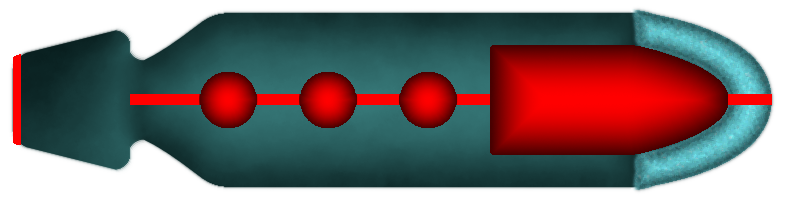
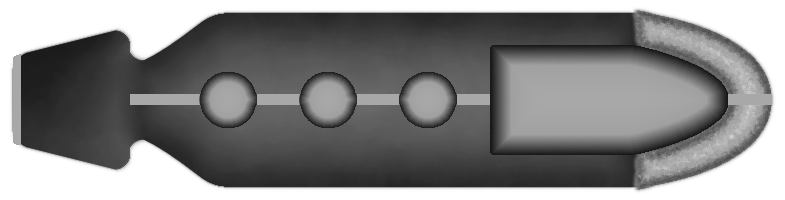
draw_floating_items: highlighting for player aligned items

diff --git a/ubootgl_app.cpp b/ubootgl_app.cpp
@@ -63,7 +63,7 @@ void UbootGlApp::loop() {
       if (player.torpedoCooldown < 0.0001 && player.torpedosLoaded > 1.0) {
         auto newTorpedo = registry.create();
         registry.assign<CoTorpedo>(newTorpedo);
-        registry.assign<CoItem>(newTorpedo, glm::vec2{0.003, 0.0006}, item.pos,
+        registry.assign<CoItem>(newTorpedo, glm::vec2{0.004, 0.0008}, item.pos,
                                 item.rotation);
         registry.assign<CoKinematics>(
             newTorpedo, 0.15,
@@ -105,7 +105,7 @@ void UbootGlApp::loop() {
 
     for (int p = 0; p < playerCount; p++) {
       auto newPlayer = registry.create();
-      registry.assign<CoItem>(newPlayer, glm::vec2{0.008, 0.0024},
+      registry.assign<CoItem>(newPlayer, glm::vec2{0.009, 0.0022},
                               glm::vec2(0.2, 0.2), 0.0f);
       registry.assign<CoKinematics>(newPlayer, 1.3, glm::vec2(0, 0), 0.0f);
       registry.assign<entt::tag<"tex_ship"_hs>>(newPlayer);
@@ -405,19 +405,31 @@ void UbootGlApp::draw() {
         registry, registry.type<entt::tag<"tex_debris1"_hs>>(),
         textures[registry.type<entt::tag<"tex_debris1"_hs>>()], PVM, 1.0f,
         true);
-    DrawFloatingItems::draw(
-        registry, registry.type<entt::tag<"tex_torpedo"_hs>>(),
-        textures[registry.type<entt::tag<"tex_torpedo"_hs>>()], PVM, 1.0f,
-        false);
 
     DrawFloatingItems::draw(
         registry, registry.type<entt::tag<"tex_agent"_hs>>(),
         textures[registry.type<entt::tag<"tex_agent"_hs>>()], PVM, 1.0f, false);
 
+    DrawFloatingItems::draw(
+        registry, registry.type<entt::tag<"tex_torpedo"_hs>>(),
+        textures[registry.type<entt::tag<"tex_torpedo"_hs>>()], PVM, 1.0f,
+        false, true);
+    DrawFloatingItems::draw(
+        registry, registry.type<entt::tag<"tex_torpedo"_hs>>(),
+        textures[registry.type<entt::tag<"tex_torpedo"_hs>>()], PVM, 1.0f,
+        false);
     DrawFloatingItems::draw(registry, registry.type<entt::tag<"tex_ship"_hs>>(),
                             textures[registry.type<entt::tag<"tex_ship"_hs>>()],
-                            PVM, 1.0f);
+                            PVM, 1.0f, false, true);
 
+    DrawFloatingItems::draw(registry, registry.type<entt::tag<"tex_ship"_hs>>(),
+                            textures[registry.type<entt::tag<"tex_ship"_hs>>()],
+                            PVM, 1.0f, false);
+
+    DrawFloatingItems::draw(
+        registry, registry.type<entt::tag<"tex_explosion"_hs>>(),
+        textures[registry.type<entt::tag<"tex_explosion"_hs>>()], PVM, 1.0f,
+        true, true);
     DrawFloatingItems::draw(
         registry, registry.type<entt::tag<"tex_explosion"_hs>>(),
         textures[registry.type<entt::tag<"tex_explosion"_hs>>()], PVM, 1.0f,
@@ -444,13 +456,14 @@ void UbootGlApp::draw() {
 
   DrawFloatingItems::draw(registry, registry.type<entt::tag<"tex_ship"_hs>>(),
                           textures[registry.type<entt::tag<"tex_ship"_hs>>()],
-                          PVM, 5.0f, false);
+                          PVM, 5.0f, false, true);
   DrawFloatingItems::draw(registry, registry.type<entt::tag<"tex_agent"_hs>>(),
                           textures[registry.type<entt::tag<"tex_agent"_hs>>()],
-                          PVM, 3.0f, false);
+                          PVM, 3.0f, false, true);
   DrawFloatingItems::draw(
       registry, registry.type<entt::tag<"tex_torpedo"_hs>>(),
-      textures[registry.type<entt::tag<"tex_torpedo"_hs>>()], PVM, 3.0f, false);
+      textures[registry.type<entt::tag<"tex_torpedo"_hs>>()], PVM, 3.0f, false,
+      true);
 
   ImGui::SetNextWindowPos(ImVec2(200, 10));
   ImGui::SetNextWindowSize(ImVec2(300, 400));

diff --git a/draw_floating_items.cpp b/draw_floating_items.cpp
@@ -43,7 +43,7 @@ void init() {
 }
 
 void draw(entt::registry &registry, entt::component component, Texture texture,
-          glm::mat4 PVM, float magnification, bool blendSum) {
+          glm::mat4 PVM, float magnification, bool blendSum, bool highlight) {
 
   entt::component components[] = {component, registry.type<CoItem>()};
   auto spriteView = registry.runtime_view(begin(components), end(components));
@@ -56,8 +56,6 @@ void draw(entt::registry &registry, entt::component component, Texture texture,
   vector<float> rot_buf;
   vector<int> player_buf;
 
-
-
   auto inversePVM = glm::inverse(PVM);
   auto screenP1 = inversePVM * glm::vec4(-1.0, -1.0, 0.0, 1.0);
   auto screenP2 = inversePVM * glm::vec4(1.0, 1.0, 0.0, 1.0);
@@ -68,6 +66,10 @@ void draw(entt::registry &registry, entt::component component, Texture texture,
     if (item.pos.x > screenP1.x && item.pos.x < screenP2.x &&
         item.pos.y > screenP1.y && item.pos.y < screenP2.y) {
       pos_buf.push_back(item.pos);
+
+      if (highlight)
+        item.size += min(item.size[0], item.size[1]) * 0.3f;
+
       size_buf.push_back(item.size * magnification);
       rot_buf.push_back(item.rotation);
 
@@ -78,7 +80,7 @@ void draw(entt::registry &registry, entt::component component, Texture texture,
 
       frame_buf.push_back(f);
       int p = -1;
-      if (registry.has<CoPlayerAligned>(entity)) {
+      if (registry.has<CoPlayerAligned>(entity) && highlight) {
         p = registry.get<CoPlayer>(registry.get<CoPlayerAligned>(entity).player)
                 .keySet;
       }
@@ -134,7 +136,11 @@ void draw(entt::registry &registry, entt::component component, Texture texture,
   } else {
     GL_CALL(glBlendFunc(GL_SRC_ALPHA, GL_ONE_MINUS_SRC_ALPHA));
   }
-  GL_CALL(glTexParameterf(GL_TEXTURE_2D, GL_TEXTURE_LOD_BIAS, -0.2));
+  if (highlight) {
+    GL_CALL(glTexParameterf(GL_TEXTURE_2D, GL_TEXTURE_LOD_BIAS, 1.5));
+  } else {
+    GL_CALL(glTexParameterf(GL_TEXTURE_2D, GL_TEXTURE_LOD_BIAS, -0.2));
+  }
 
   GL_CALL(glBindVertexArray(vao));
 

diff --git a/ubootgl_app.hpp b/ubootgl_app.hpp
@@ -36,7 +36,7 @@ public:
     scale = 3.0;
 
     textures.emplace(registry.type<entt::tag<"tex_ship"_hs>>(),
-                     Texture("resources/ship3.png", 2, 1));
+                     Texture("resources/ship2.png", 1, 1));
     textures.emplace(registry.type<entt::tag<"tex_debris1"_hs>>(),
                      Texture("resources/debris1.png"));
     textures.emplace(registry.type<entt::tag<"tex_debris2"_hs>>(),

diff --git a/draw_floating_items.hpp b/draw_floating_items.hpp
@@ -9,6 +9,7 @@ namespace DrawFloatingItems {
 void init();
 
 void draw(entt::registry &registry, entt::component component, Texture texture,
-          glm::mat4 PVM, float magnification, bool blendSum = false);
+          glm::mat4 PVM, float magnification, bool blendSum = false,
+          bool highlight = false);
 
 } // namespace DrawFloatingItems
